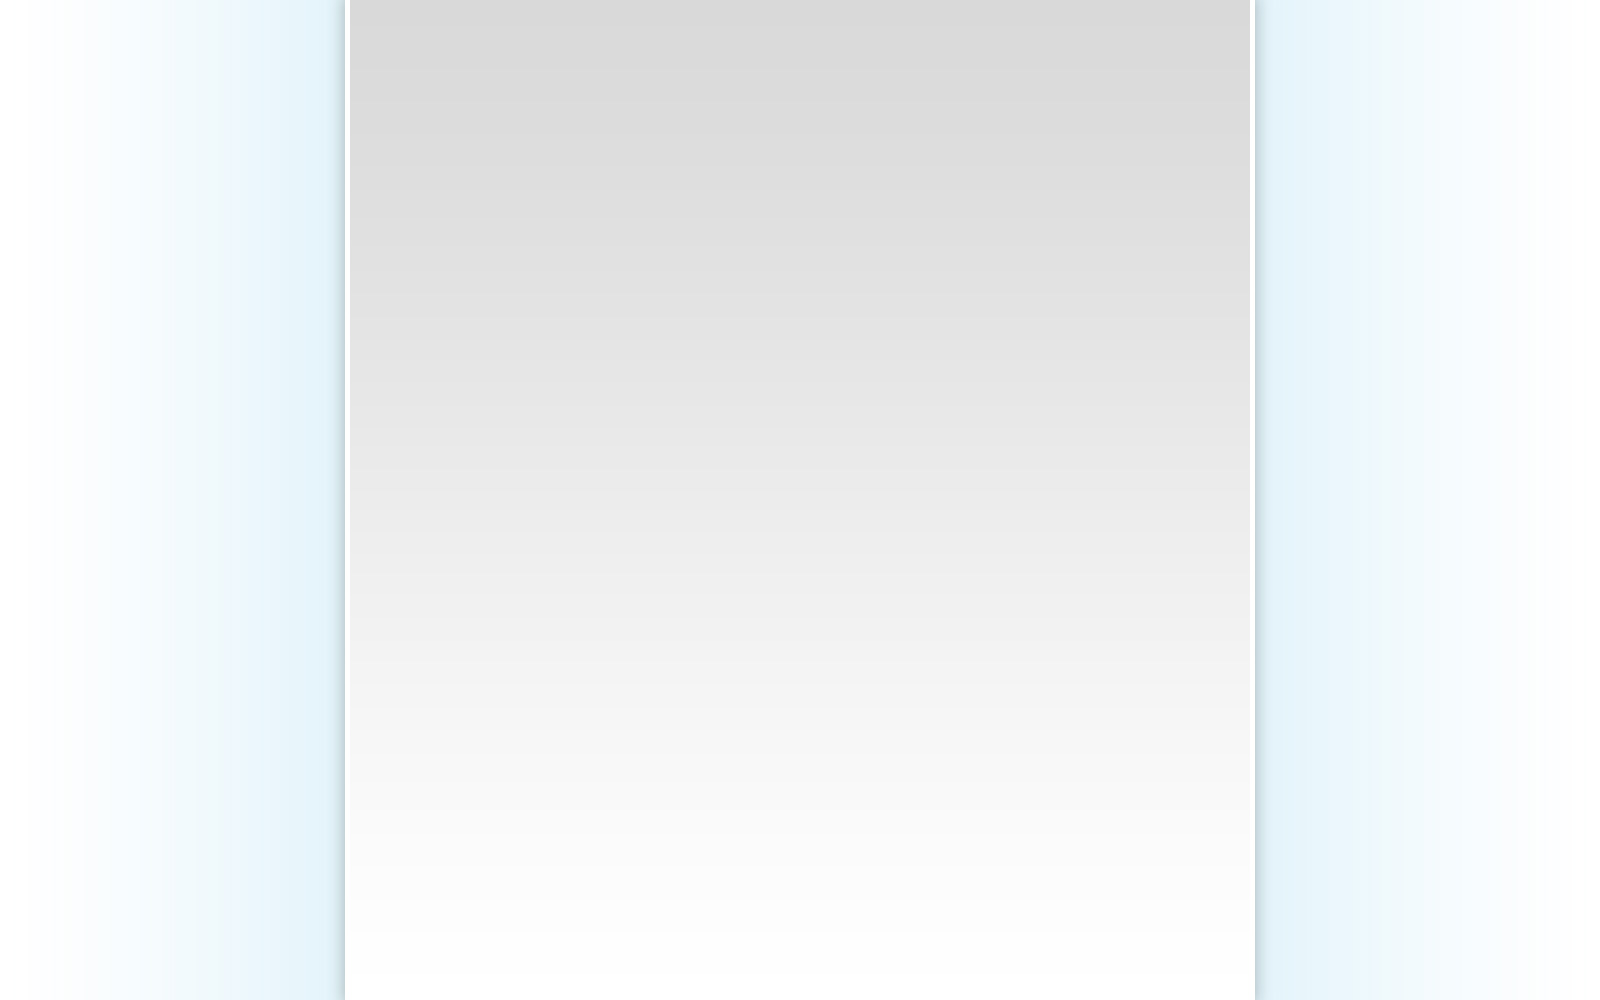
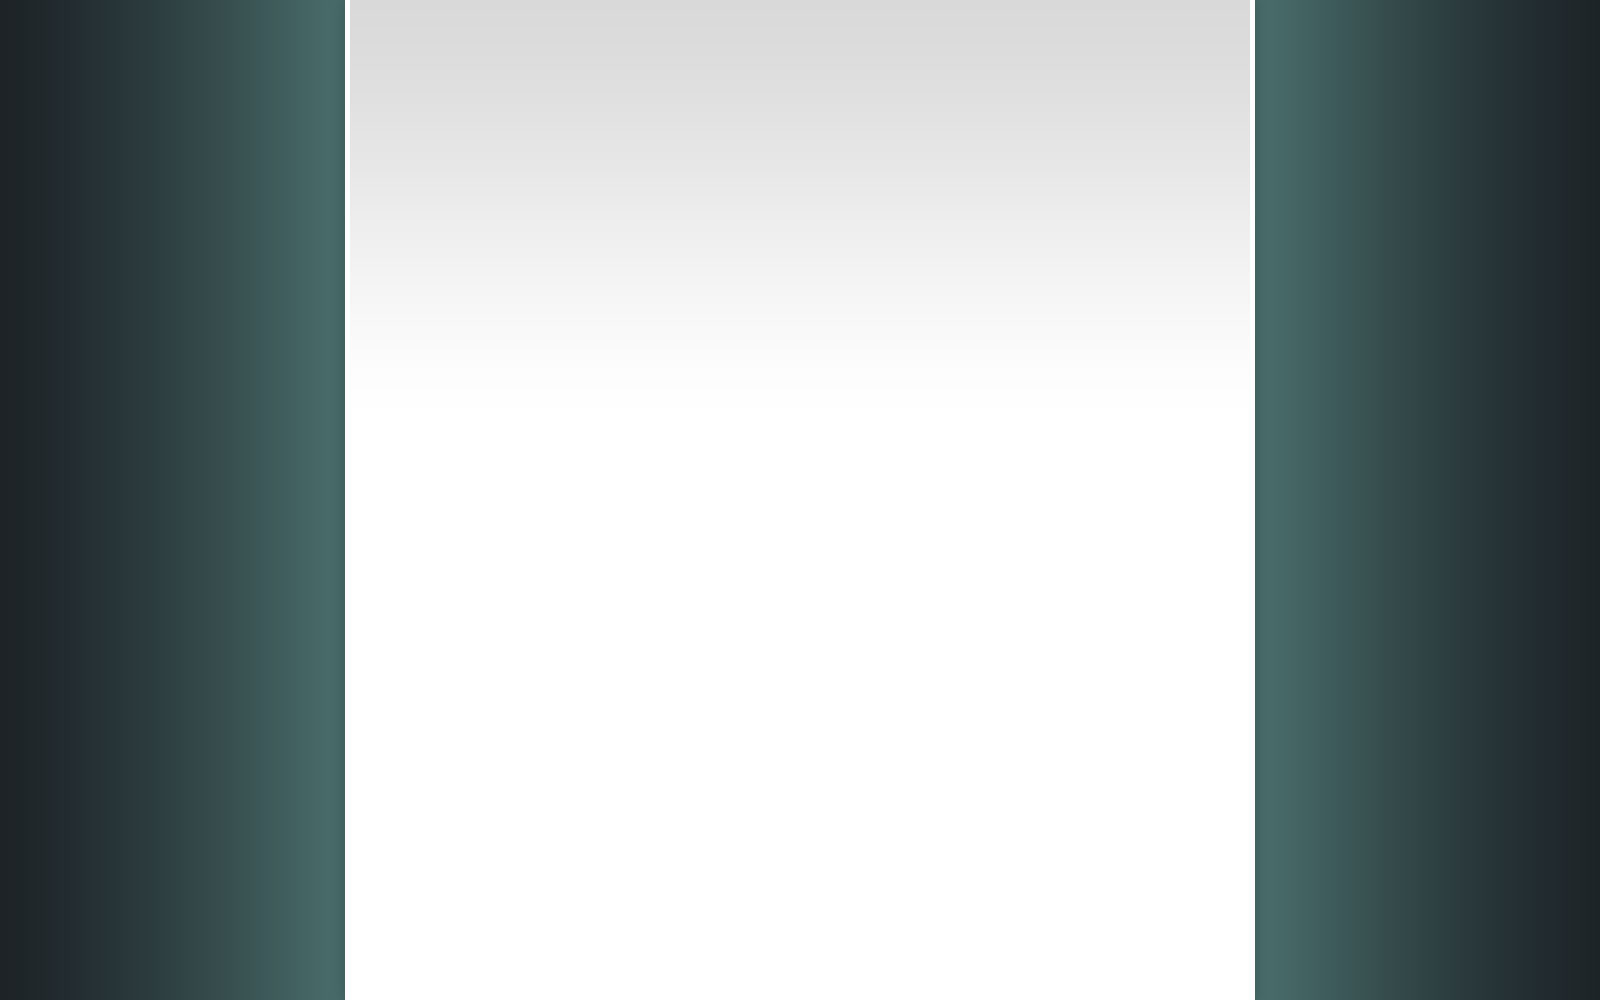
revert to old bg

diff --git a/public/stylesheets/screen.css b/public/stylesheets/screen.css
@@ -70,7 +70,6 @@ ul.menu, ul.separated {
 #content {
   width: 900px;
   /* background: url(/images/content_top.png) #FFF top center no-repeat; REMOVED */
-  background: #fff;
   float: left;
   margin-bottom: 10px; }
 
@@ -78,7 +77,6 @@ ul.menu, ul.separated {
   width: 900px;
   padding-bottom: 15px;
   /* background: url(/images/content_bottom.png) center bottom no-repeat; REMOVED */
-  background: #fff;
   float: left; }
 
 .inner_content {

diff --git a/public/stylesheets/pyo/screen.css b/public/stylesheets/pyo/screen.css
@@ -1,7 +1,11 @@
 /* BODY */
 
 body { 
-	background: #fff url(http://putyourselfon.com/bg-may2010.jpg) top center no-repeat fixed;
+	background: #fff url(http://putyourselfon.com/pyobg.jpg) top center no-repeat fixed;
+	}
+
+#content {
+	background: #fff;
 	}
 
 #inner_content {
